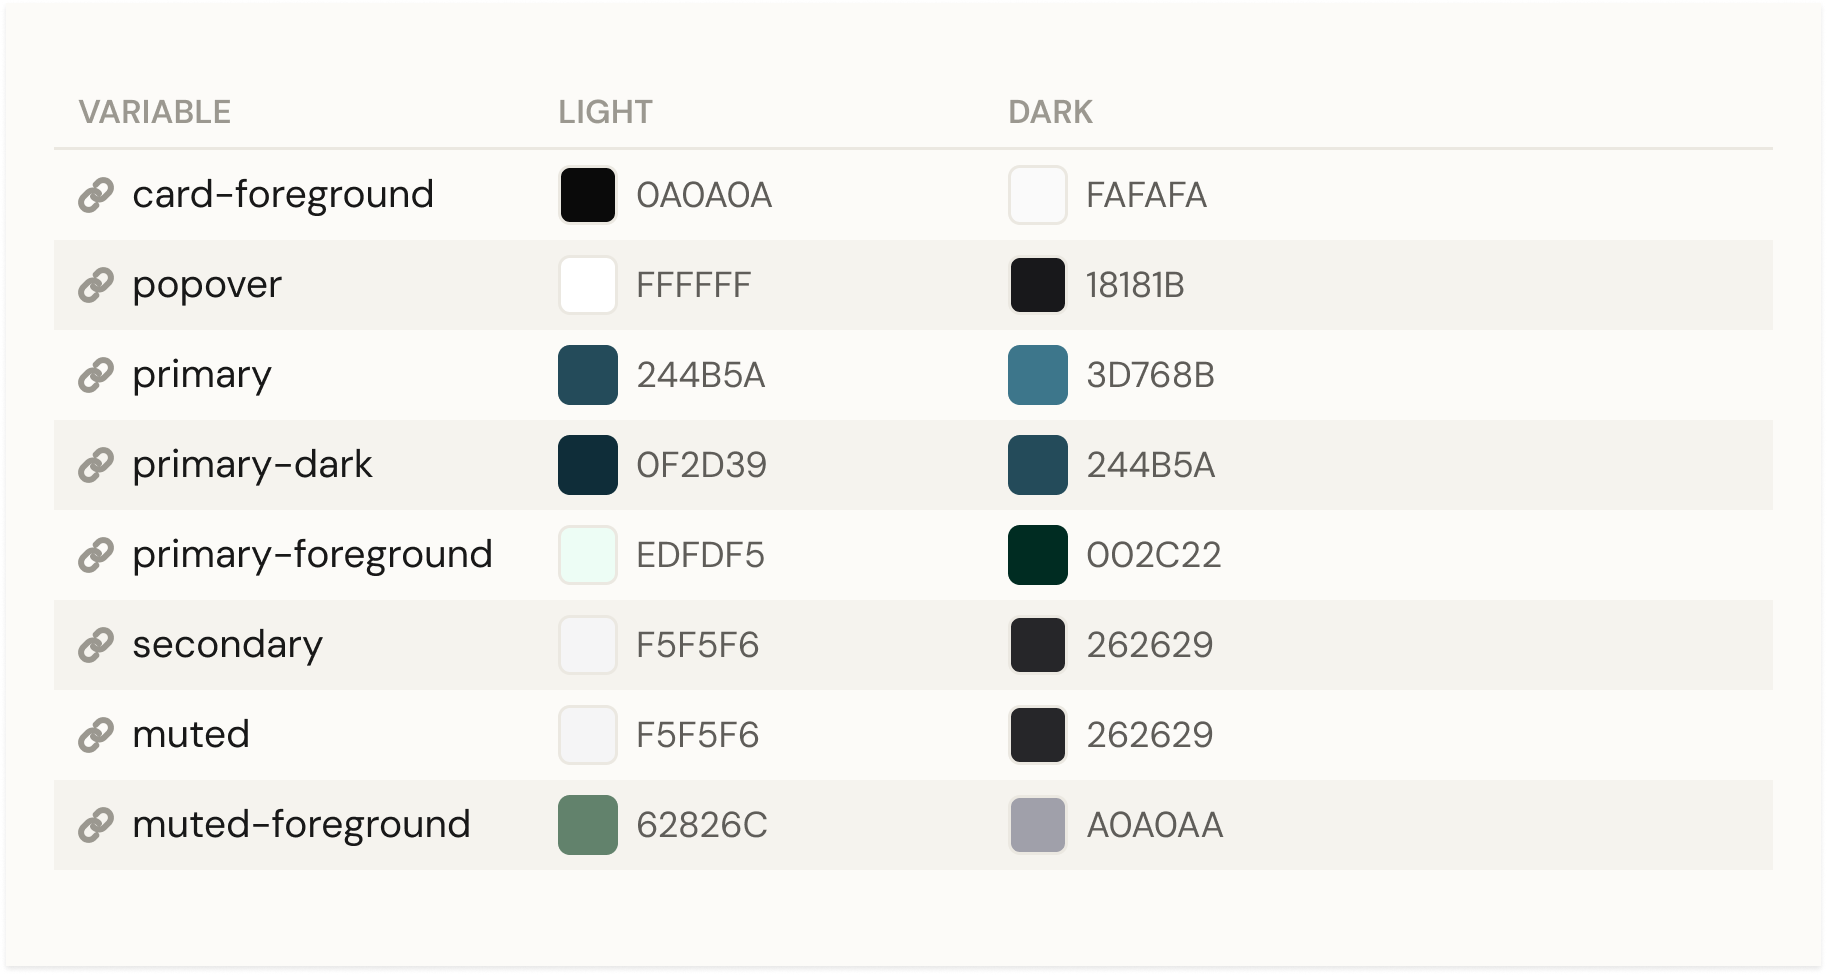
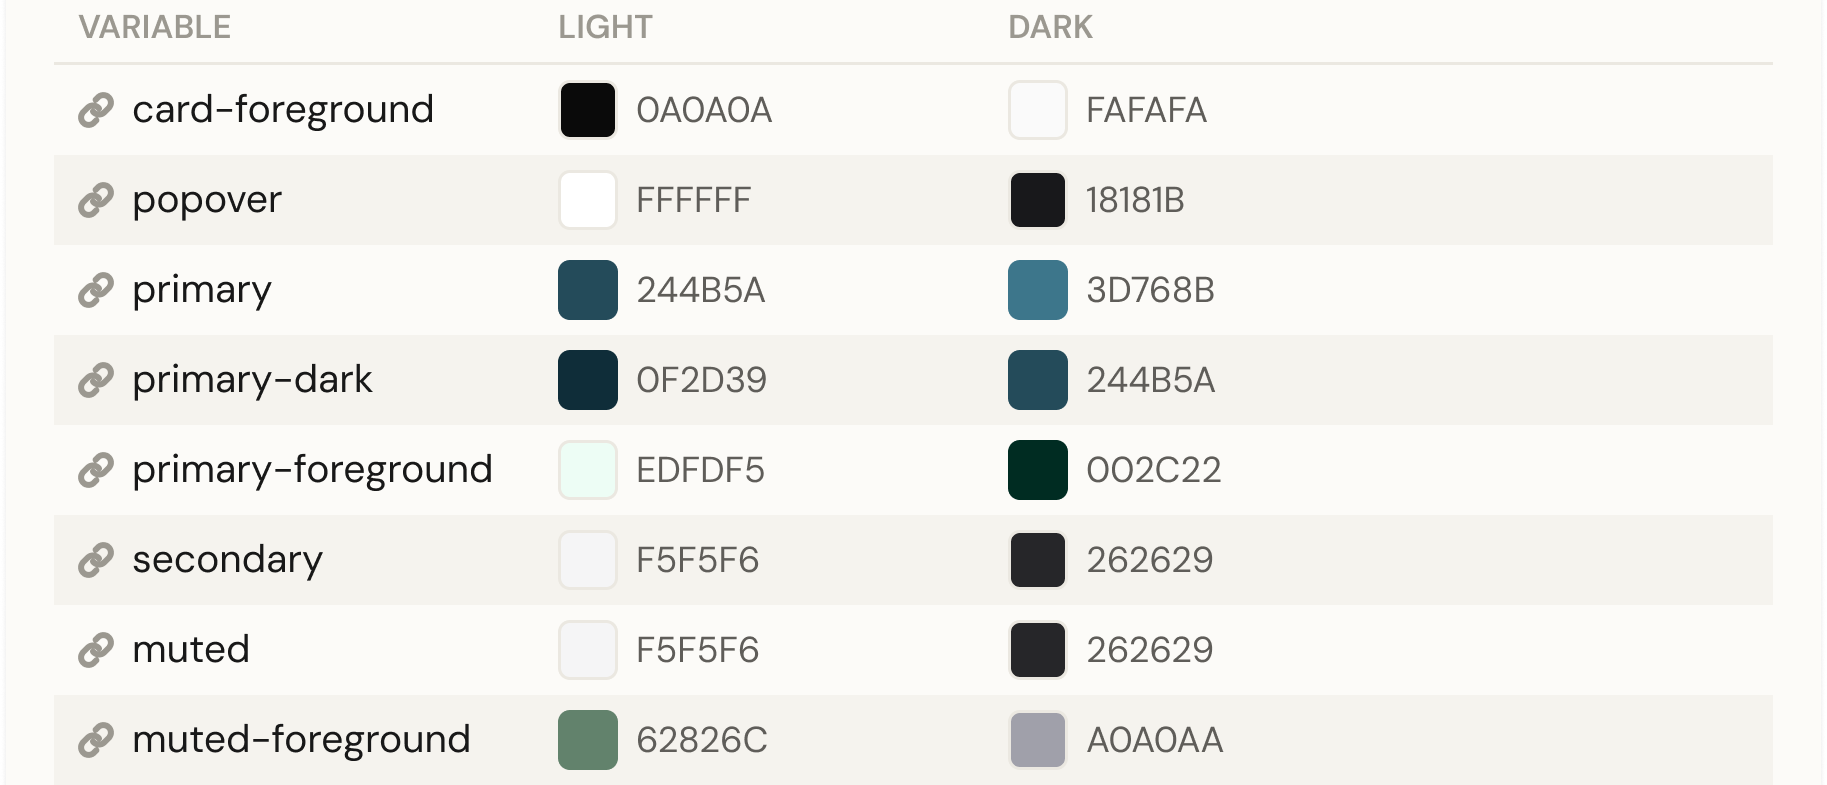
Add dashboard audit image and tighten tokens-3.png crop
Claude-Session: https://claude.ai/code/session_01HvE5fhGpPsXAnSRp7pkHqS

diff --git a/src/lib/projects.ts b/src/lib/projects.ts
@@ -1738,7 +1738,7 @@ export const projects: Project[] = [
           image: {
             src: "/projects/kashtkaar/design%20system/tokens-3.png",
             width: 1827,
-            height: 975,
+            height: 785,
             alt: "Kashtkaar design-system token definitions in Figma",
           },
         },
@@ -1763,7 +1763,16 @@ export const projects: Project[] = [
       {
         kind: "media",
         bordered: true,
-        media: { kind: "placeholder", label: "AI / system-audit examples (placeholder)" },
+        width: "reduced-70",
+        media: {
+          kind: "image",
+          image: {
+            src: "/projects/kashtkaar/design%20system/Kashtkaar%20dashboard%20audit.png",
+            width: 832,
+            height: 698,
+            alt: "AI-assisted audit comparing a new Kashtkaar dashboard exploration against the existing design system",
+          },
+        },
       },
       {
         kind: "media",
